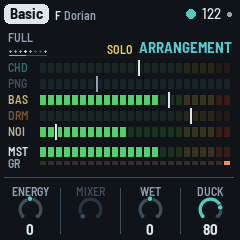
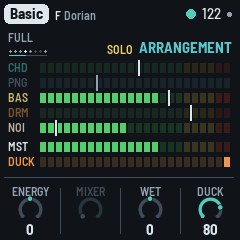
1.4.0: the Arrangement page after the user's first look: the duck's row named DUCK, as tall as the others; the cards under a second (fade and all); no big ring there (the notches show the change); the classic meters kept; the manual and its two screenshots

Changed region(s): [[0.0292, 0.3208, 0.9625, 0.7]]

diff --git a/firmware/src/app/ui.c b/firmware/src/app/ui.c
@@ -324,8 +324,9 @@ static void say_name(const char *a, const char *b)
 }
 /* a long press's card in the middle (a nudge, a shake, the next chord, new chords, saved, a reset): what it did, in
  * big, outlined in its colour; it fades out CARD_SHOW after (draw_card) */
-#define CARD_SHOW 1500u
-#define CARD_FADE 300u
+#define CARD_SHOW 800u                   /* (1.4.0, the user's: they distract; a second, fade and all, till the aids
+                                          * can be turned off) */
+#define CARD_FADE 200u
 static int str_begins(const char *s, const char *p)   /* (the firmware's libc has no strcmp, strncmp) */
 {
     while (*p && *s == *p)
@@ -1608,7 +1609,9 @@ static void input(void)
                 static const uint16_t LC[NLAYER] = {K_PAD, K_BELL, K_BASS, K_PULSE, K_NOISE};
                 static const uint16_t MC[4] = {K_PAD, K_BELL, K_BASS, K_PULSE};
                 const int k = VIEW_KNOB[ui.view][i], l = oct_layer(ui.view);
-                if (ui.view != V_CHORDS && ui.view != V_PAT && k != K_SAVE && k != K_CPU && k != K_NONE)
+                if (ui.view != V_CHORDS && ui.view != V_PAT && ui.view != V_PERF && ui.view != V_MIX && k != K_SAVE &&
+                    k != K_CPU && k != K_NONE)   /* (1.4.0, the user's: nor the Arrangement page, the meters its
+                                                  * picture: the notches show the change) */
                     big_show_help(k, KNOB_LABEL[ui.view][i], ui.view == V_MIX ? MC[i] : l >= 0 ? LC[l] : K_ACC,
                                   KNOB_HELP[ui.view][i]);
             }
@@ -2526,7 +2529,7 @@ static void draw_alg(int layer)
 #define MT_P 8
 #define MT_W 6
 #define MT_Y0 35                                 /* the first row; MT_ROW apart, MT_H high */
-#define MT_ROW 16
+#define MT_ROW 15
 #define MT_H 10
 static struct {
     float db[EN_NMETER], hold[EN_NMETER];        /* each meter as shown (dB), its peak held */
@@ -2623,12 +2626,13 @@ static void draw_desk(void)
             cv_rect(mx, y - 3, 2, MT_H + 6, mc);
         }
     }
-    {   /* under the master: the duck's gain reduction, from the right, a segment each MT_DB */
-        const int32_t y = mt_y(EN_MT_MASTER) + MT_H + 4;
+    {   /* under the master: the duck (its gain reduction), from the right, a segment each MT_DB; a row as the others
+         * (1.4.0, the user's: named DUCK, as tall) */
+        const int32_t y = mt_y(EN_MT_MASTER) + MT_ROW;
         const int g = (int)(mt.gr * (1.0f / MT_DB) + 0.5f);
-        cv_text(8, y - 5, &FONT_XS, "GR", proj.par[P_DUCK] ? K_DIM : K_LINE);
+        cv_text(8, y - 3, &FONT_XS, "DUCK", proj.par[P_DUCK] ? K_PULSE : K_LINE);
         for (i = 0; i < MT_SEG; i++)
-            cv_rect(MT_X0 + i * MT_P, y, MT_W, 4, i >= MT_SEG - g ? K_PULSE : mix(K_BG, K_PULSE, 3));
+            cv_rect(MT_X0 + i * MT_P, y, MT_W, MT_H, i >= MT_SEG - g ? K_PULSE : mix(K_BG, K_PULSE, 3));
     }
 }
 

diff --git a/docs/MANUAL.md b/docs/MANUAL.md
@@ -112,7 +112,7 @@ The drawing at the top shows them all; here they are in more detail.
 | SELECT | **The DJ filter**, on every page (the same one as the Form page's Filter, KNOB 1): left shuts it (a low-pass, under water), right opens it (a high-pass, thin and bright), Off in the middle, where it stops on its way through (three clicks to leave it). While it turns, a big ring in the middle shows it, and the header says it ("FILTER Shut 40"); the page stays. Hold HOME and turn it for the tempo, from any page. The pages are on their buttons; the page's name, top right, says where you are. |
 | ALGORITHM | On a layer's page (Chord, Pings, Bass, Drums): that layer's **voice** (see [The voices](#the-voices)). On the Noise pages: its character. On the Chords page: the walk's character (Home, Wander, Free). Anywhere else: the middle of the screen, as ripples, a scope or a spectrum (see [The screen](#4-the-screen)). The mode, a piece's choice, is on the Key page (HOME again). |
 | PRESETS | The piece (see [The pieces](#7-the-pieces)). |
-| KNOB 1–4 | The four values on the screen. A few clicks are always single steps; a quick turn speeds up, so half a turn sweeps the range. While a knob turns, its value shows large in the middle of the screen, in a big ring with its name and what it does under it (on the Chords and Pattern pages, which show the change themselves, the line above the knobs says what it does). A **centred** knob (0 in the middle: the sound pages' −50…+50 ones, the Noise page's Tone, the Filter, the Arrangement page's Energy and Wet) has a **notch** at 0: turning through, it stops there, and to leave it takes three clicks the same way (the first two are held back). A switch shows its positions as dots, up to ten (Drift, Mode, Algo). A grey knob does nothing there. |
+| KNOB 1–4 | The four values on the screen. A few clicks are always single steps; a quick turn speeds up, so half a turn sweeps the range. While a knob turns, its value shows large in the middle of the screen, in a big ring with its name and what it does under it (on the Chords, Pattern and Arrangement pages, which show the change themselves, the line above the knobs says what it does). A **centred** knob (0 in the middle: the sound pages' −50…+50 ones, the Noise page's Tone, the Filter, the Arrangement page's Energy and Wet) has a **notch** at 0: turning through, it stops there, and to leave it takes three clicks the same way (the first two are held back). A switch shows its positions as dots, up to ten (Drift, Mode, Algo). A grey knob does nothing there. |
 | OCT− / OCT+ | On a layer's page (Chord, Pings, Bass, Drums or Noise, and their sound, FM and Pattern pages, and Noise space): that layer's **level**, 5 down or up a press ("BASS 55" in the header, and a big ring in the middle, in the layer's colour, the level inside, until a second after the last press); held, it keeps going. **Both together**, let go within a second: the layer **muted** ("BASS MUTED"), its level kept; again, back ("BASS ON"). The drums mute the kick and the hats together. These are the Arrangement page's mutes (white 1–5): a mute made here shows there, and the other way round. Held together for five seconds: the update mode (see [Troubleshooting](#11-troubleshooting)); a long press never mutes. On the other pages they do nothing. (The pings' octave is on the Pings page, KNOB 2.) |
 | MASTER | Volume. |
 | SAVE | The **Noise page** (below); again, **Noise space** (its width and its sends; SAVE blinks); again, **Noise LFO** (its filter's wave and drift); again, back to the Noise page. Held: a nudge to the noise; held on (1.5 s): a shake (another noise character). Saving is on GLO. |
@@ -147,7 +147,7 @@ kick ducks it fully; a beat without one a little less, and less again while the 
 kick out (a Break), so the music keeps breathing (the ghost duck). The noise is ducked deeper than
 the music.
 
-![The Arrangement page: six rows of green LED segments, CHD, PNG, BAS, DRM, NOI and MST, each with a white fader marker, the drums' and the master's reaching yellow; under the master, GR, the duck's orange segments from the right; ENERGY 0, MIXER grey, WET 0, DUCK 80](img/screen-perform.png "The Arrangement page")
+![The Arrangement page: six rows of green LED segments, CHD, PNG, BAS, DRM, NOI and MST, each with a white fader marker, the drums' and the master's reaching yellow; under the master, DUCK, its orange segments from the right; ENERGY 0, MIXER grey, WET 0, DUCK 80](img/screen-perform.png "The Arrangement page")
 
 **The meters.** A row a part, top to bottom: the chord (CHD), the pings (PNG), the bass (BAS), the
 drums (DRM: the kick and the hats, the rim and the clap), the noise (NOI), and under them the master
@@ -164,13 +164,14 @@ drums (DRM: the kick and the hats, the rim and the clap), the noise (NOI), and u
   segments amber and red.
 - **A muted part's row is dark** (its notch kept, grey); with a **solo** on, the rows soloed out are
   dimmed, the one you hear bright. (The noise has no solo key: it plays on under a solo.)
-- **GR**, under the master: the duck, as a compressor's gain reduction, eating segments from the
+- **DUCK**, under the master, a row as the others: the duck, as a compressor's gain reduction, eating segments from the
   right with each kick (2 dB a segment): on the bass while it plays (the deepest, the pump you
   hear), else on the rest of the music. Duck at 0, it stays dark.
 - **Red at the top of MST** means the output is at full scale: the soft clip is squashing it, and
   a red **!** lights in the header, on every page, for a second (turn MASTER or a level down).
 
-On the Arrangement page, each key says what it did on a card in the middle for a moment: a mute ("PINGS muted",
+On the Arrangement page, each key says what it did on a card in the middle for a moment (under a second, so the
+meters under it show the effect): a mute ("PINGS muted",
 in the layer's colour), a solo, a move as you press it ("THROW: every stab into the echo"), the mix.
 
 **Hold white 6** for the **Mix** page: KNOB 1–4 the levels of the chord, the pings, the bass and the
@@ -301,8 +302,8 @@ save it (GLO held) or keep it with Lock (SEL held).
 Saving (GLO held) keeps what you like; GLO held on (1.5 s) puts the piece back to its recipe. Evolve nudges by itself too (the Dub
 page, below), but never shakes.
 
-**The cards.** Every long press says what it did on a card in the middle of the screen, for a
-second and a half: a nudge (amber) or a shake (red), the layer and what changed; EDIT held, NEXT
+**The cards.** Every long press says what it did on a card in the middle of the screen, for about a
+second: a nudge (amber) or a shake (red), the layer and what changed; EDIT held, NEXT
 CHORD (gone the moment the chord changes); EDIT held on, NEW CHORDS (red); GLO held, SAVED (teal);
 GLO held on, RESET (red); SEL held, LOCK. Evolve's own nudges show no card.
 

diff --git a/PLAN.md b/PLAN.md
@@ -727,6 +727,10 @@ The UI plan (build/design/UI-REVIEW.md; the user: "I agree with the plan"), and 
     how far through the song), and what's coming (the next section at the phrase's last bar, as the next chord is
     shown). To design with song structure (B).
   - Not now: a three-band EQ (the voice pages have the tone), a bus compressor (the CPU).
+  - **After step 1** (the user, 2026-10-24): the classic green / yellow / red meters chosen; the duck's row named
+    DUCK and as tall as the others; the cards under a second everywhere (they distract; they go with the aids' off
+    switch later); no big ring on the Arrangement page (the notches show the change). Open: what to put in the
+    strips' freed room (the user: perhaps the strips back, reduced).
   - **Step 1 built** (branch dub-1.4-arr, 2026-10-24): the names (Form, Dub, Arrangement; the identifiers V_DUB,
     V_SPACE, V_PERF kept), the knobs (Energy, Mixer grey, Wet, Duck), the meters (24 segments of 2 dB, -48..0; the
     peak held 1 s; the level's notch; mute dark, soloed out dimmed; GR under the master: the bass's duck while it
